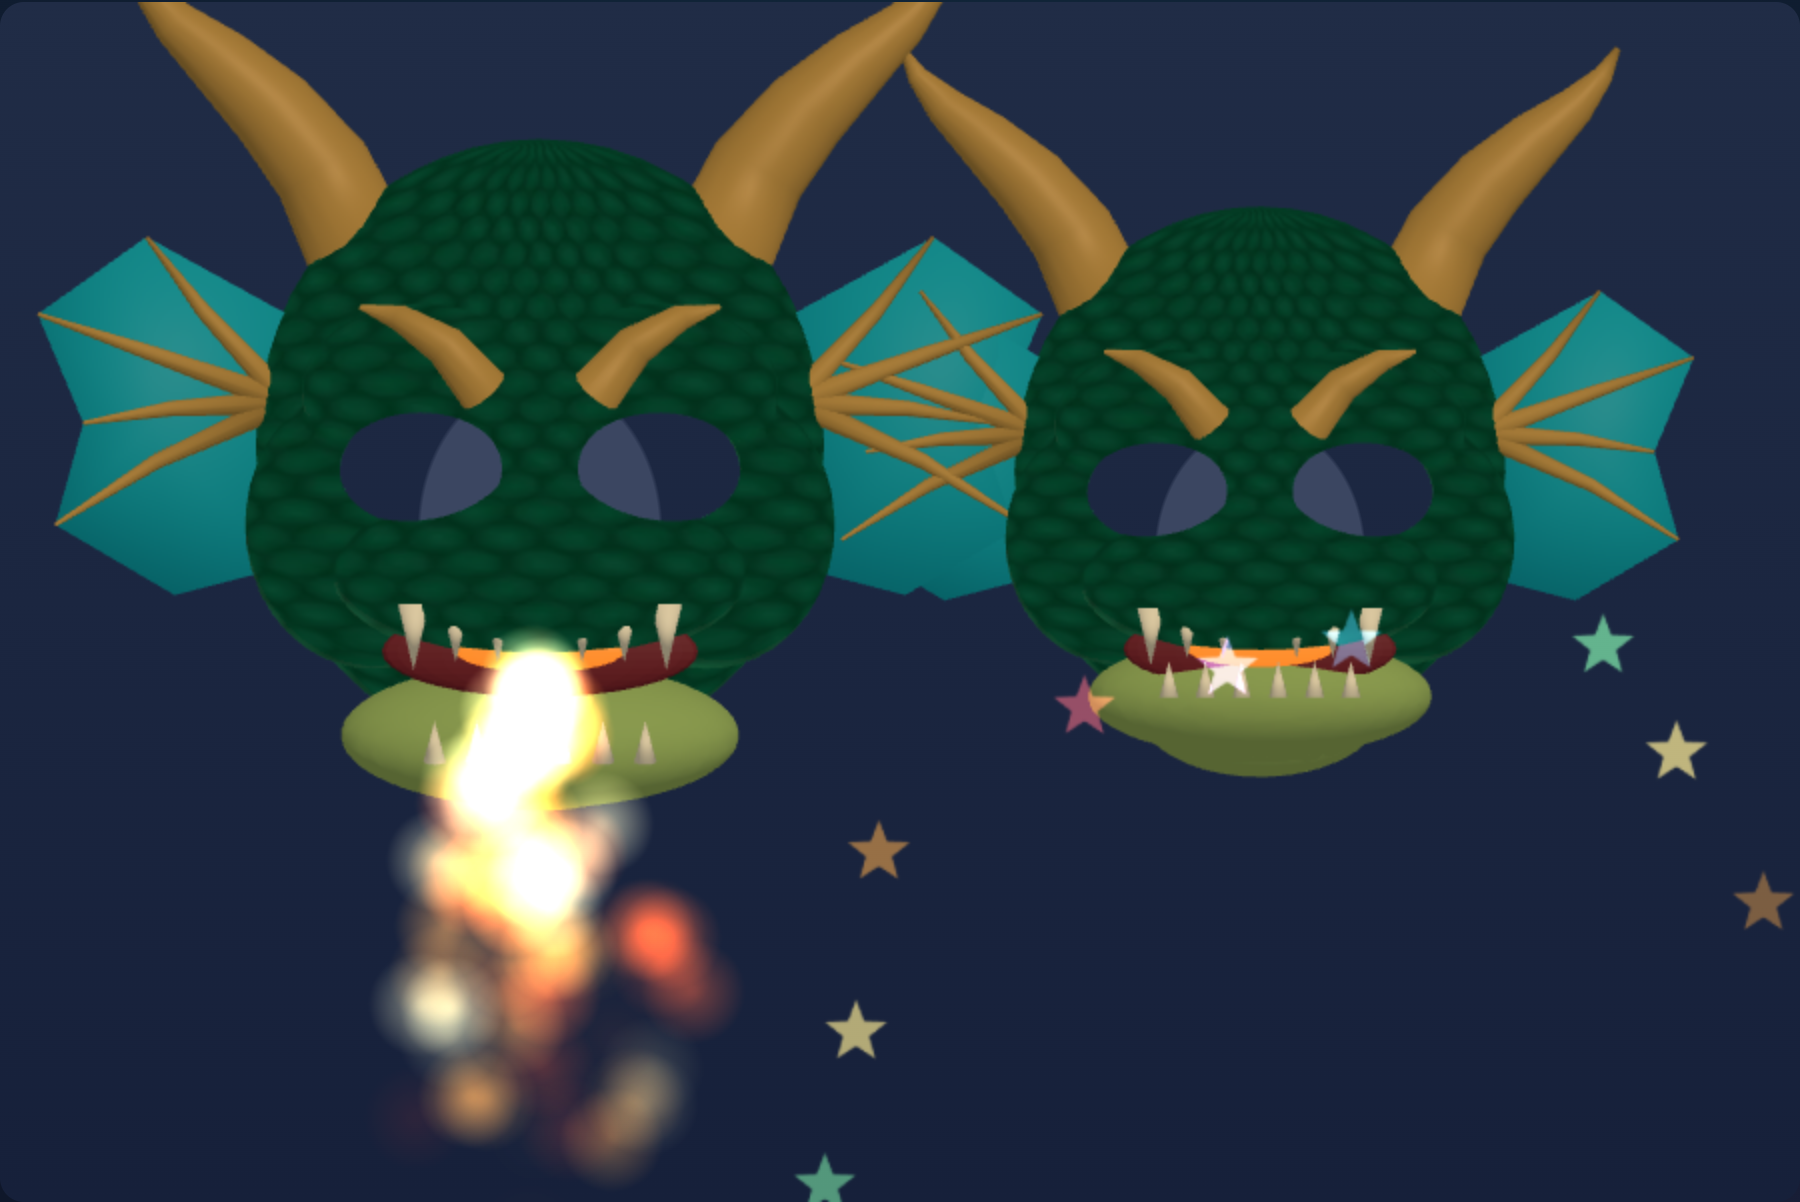
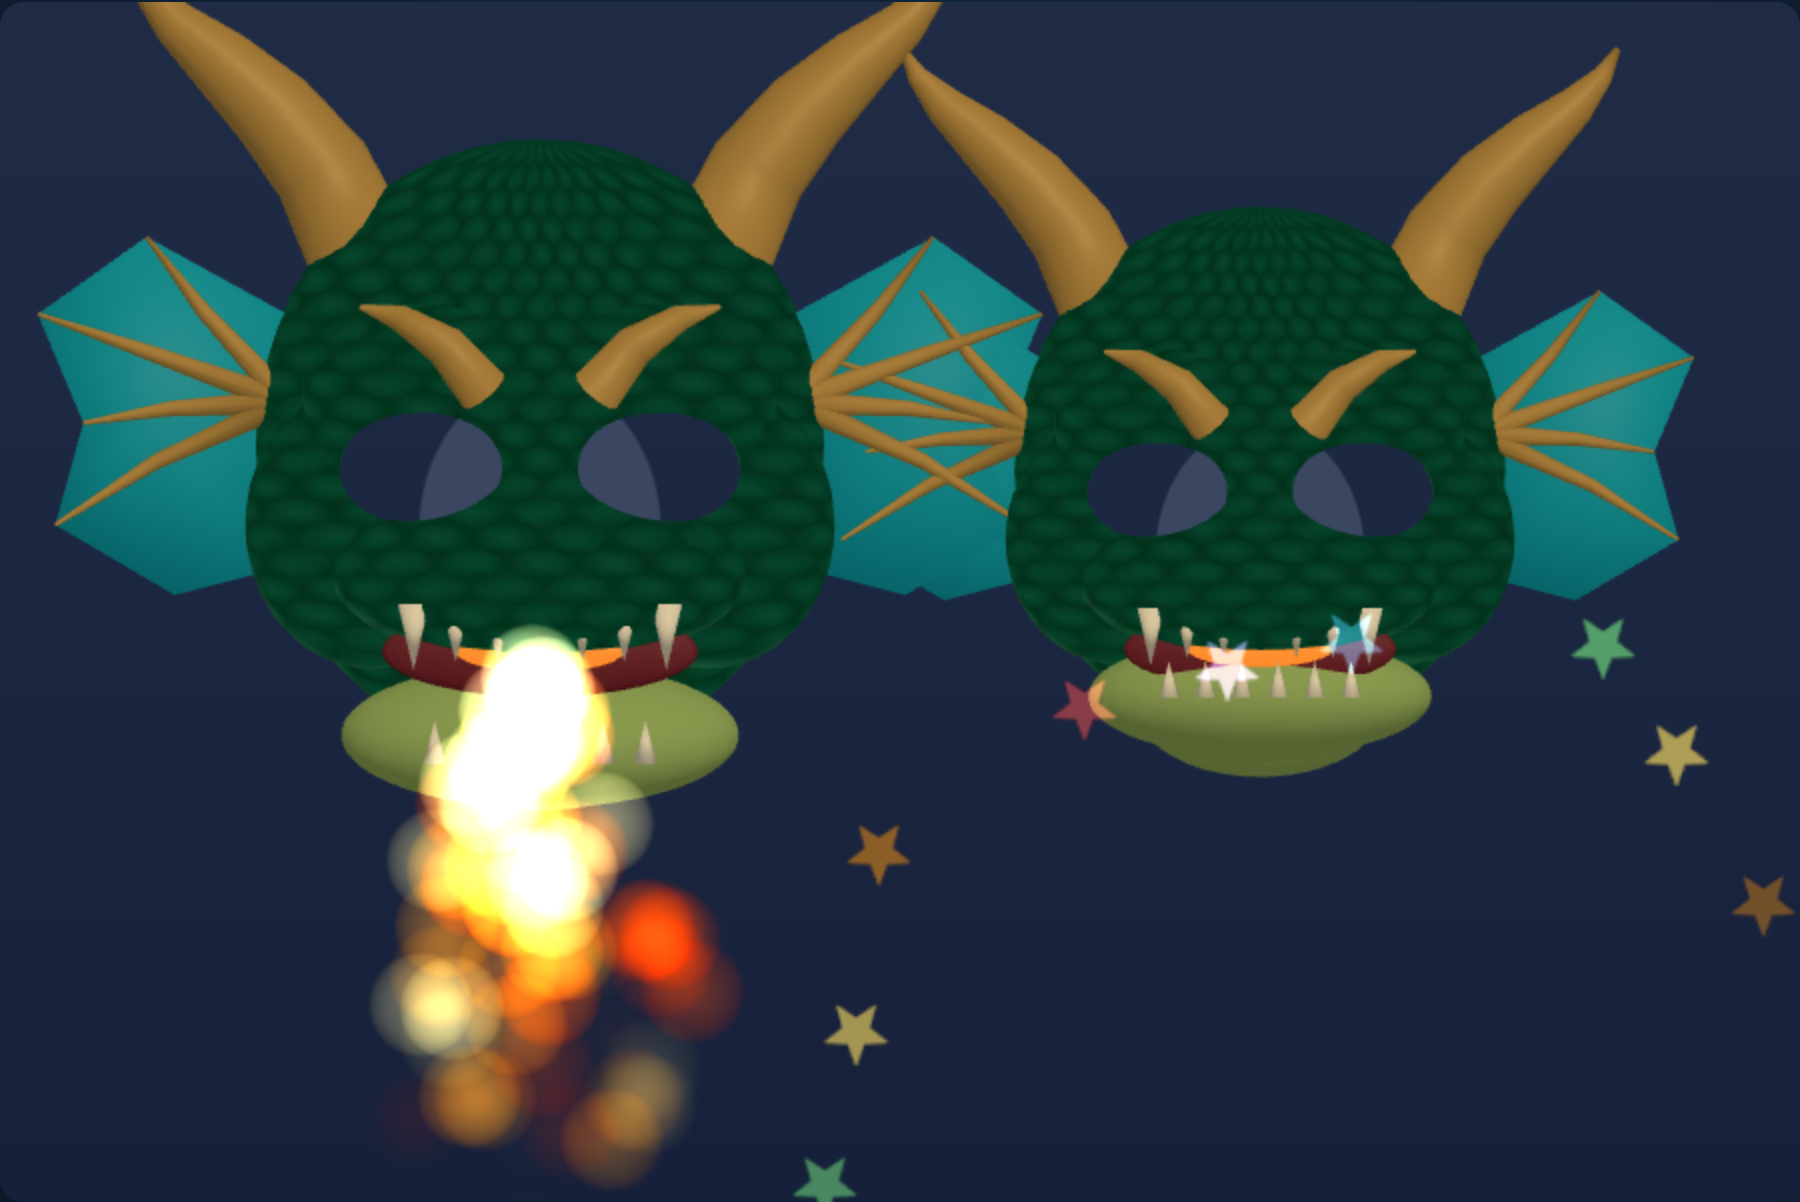
fix(effects): the fire reaches past the mask on the iPad
The flame stopped dead at the edge of the mask on the iPad, and the
peace-sign stars did the same wherever they left it.

The overlay is a transparent canvas over the video, and the glowing effects
added colour to it without writing any alpha — deliberately, because
accumulating alpha as a particle faded to black composited dying embers as
dark blots over the video. Chromium adds that colour to the page anyway,
which is why every screenshot looked right. WebKit — every browser on the
family's iPads — drops colour it finds in a pixel whose alpha is zero, so
the fire survived exactly as far as the mask underneath it and was cut off
at its edge.

The particles now draw through a small shader that writes premultiplied
colour and takes its alpha from the brightness of the pixel it just wrote,
after the conversion to the output colour space. Colour and alpha arrive
together, so WebKit keeps the flame; a particle fading to black hands back
an alpha fading with it, so the dark blots stay gone. The reduced-motion
glow blends normally now, which writes alpha for the same reason without
needing light maths for a still shape.

Two smaller things while in here: the glowing effects no longer depth-test
against the mask, so a face close enough to the camera can't scale the jaw
in front of the flame and cut through it, and their draw order over the
mask is explicit rather than incidental.

Proved in both engines on the effects harness (no camera needed): before,
[…]

diff --git a/src/shared/effects/overlay/particles.ts b/src/shared/effects/overlay/particles.ts
@@ -8,19 +8,65 @@
 import * as THREE from 'three';
 
 /**
- * Additive glow that leaves the canvas's alpha channel alone. Stock
- * `AdditiveBlending` also accumulates alpha, and on this transparent overlay
- * that composites faded (near-black) particles as solid black blotches over
- * the page. Adding RGB while keeping destination alpha works because the
- * canvas is premultiplied: the browser adds our RGB straight onto the video.
+ * The material every glowing particle uses: additive light on a transparent
+ * canvas floating over the video.
+ *
+ * The canvas is premultiplied, and **alpha has to be written wherever colour
+ * is added**. WebKit — every browser on the family's iPads — drops colour it
+ * finds in a pixel whose alpha is zero, so an effect that only added RGB
+ * survived exactly as far as the mask underneath it and was cut off at its
+ * edge. Chromium keeps that colour, which is why it looked right in the
+ * screenshots and wrong in the mirror.
+ *
+ * So the shader writes premultiplied colour and takes the alpha from the
+ * brightness of the pixel it just wrote, after the conversion to the output
+ * colour space. A particle fading to black hands back an alpha fading to zero
+ * with it, which is what keeps a dying ember from compositing as a dark blot
+ * over the video — the reason the alpha channel was left alone before.
+ *
+ * Light also never hides behind the thing it comes off, so these draw over the
+ * scene rather than being depth-tested against it: a face close enough to the
+ * camera scales the mask deeper than the flame's own plane, and the jaw would
+ * otherwise cut through the fire.
  */
-export function additiveOverlay(material: THREE.Material): void {
-  material.blending = THREE.CustomBlending;
-  material.blendEquation = THREE.AddEquation;
-  material.blendSrc = THREE.SrcAlphaFactor;
-  material.blendDst = THREE.OneFactor;
-  material.blendSrcAlpha = THREE.ZeroFactor;
-  material.blendDstAlpha = THREE.OneFactor;
+function glowMaterial(texture: THREE.Texture): THREE.ShaderMaterial {
+  return new THREE.ShaderMaterial({
+    uniforms: {
+      map: { value: texture },
+      // The overlay camera is orthographic, so distance-based point scaling is
+      // meaningless — sizes are plain pixels.
+      size: { value: 24 },
+    },
+    vertexShader: /* glsl */ `
+      attribute vec3 color;
+      uniform float size;
+      varying vec3 vColor;
+      void main() {
+        vColor = color;
+        gl_PointSize = size;
+        gl_Position = projectionMatrix * modelViewMatrix * vec4(position, 1.0);
+      }
+    `,
+    fragmentShader: /* glsl */ `
+      uniform sampler2D map;
+      varying vec3 vColor;
+      void main() {
+        vec4 sprite = texture2D(map, gl_PointCoord);
+        gl_FragColor = vec4(vColor * sprite.a, 1.0);
+        #include <colorspace_fragment>
+        gl_FragColor.a = max(max(gl_FragColor.r, gl_FragColor.g), gl_FragColor.b);
+      }
+    `,
+    transparent: true,
+    depthWrite: false,
+    depthTest: false,
+    blending: THREE.CustomBlending,
+    blendEquation: THREE.AddEquation,
+    blendSrc: THREE.OneFactor,
+    blendDst: THREE.OneFactor,
+    blendSrcAlpha: THREE.OneFactor,
+    blendDstAlpha: THREE.OneFactor,
+  });
 }
 
 /** Soft radial disc — the fire/glow sprite. Canvas-generated (ADR 0006). */
@@ -73,6 +119,8 @@ export interface ParticlePool {
   ): void;
   /** Advance the simulation and re-upload buffers. */
   step(dtS: number, gravityY: number, fade: (c: THREE.Color, lifeLeft: number) => void): void;
+  /** Sprite width in pixels — effects scale it off the face or hand. */
+  setSize(px: number): void;
   /** True when nothing is alive (safe to hide the points object). */
   idle(): boolean;
   dispose(): void;
@@ -89,17 +137,7 @@ export function createParticlePool(capacity: number, texture: THREE.Texture): Pa
   const geometry = new THREE.BufferGeometry();
   geometry.setAttribute('position', new THREE.BufferAttribute(positions, 3));
   geometry.setAttribute('color', new THREE.BufferAttribute(colors, 3));
-  // The overlay camera is orthographic, so distance-based point scaling is
-  // meaningless — sizes are plain pixels.
-  const material = new THREE.PointsMaterial({
-    map: texture,
-    vertexColors: true,
-    transparent: true,
-    depthWrite: false,
-    sizeAttenuation: false,
-    size: 24,
-  });
-  additiveOverlay(material);
+  const material = glowMaterial(texture);
   const points = new THREE.Points(geometry, material);
   points.frustumCulled = false;
 
@@ -141,10 +179,13 @@ export function createParticlePool(capacity: number, texture: THREE.Texture): Pa
       geometry.attributes.position.needsUpdate = true;
       geometry.attributes.color.needsUpdate = true;
     },
+    setSize(px) {
+      material.uniforms.size.value = px;
+    },
     idle: () => alive <= 0,
     dispose() {
       geometry.dispose();
-      material.map?.dispose();
+      material.uniforms.map.value?.dispose();
       material.dispose();
     },
   };

diff --git a/src/shared/effects/overlay/fire.ts b/src/shared/effects/overlay/fire.ts
@@ -6,7 +6,7 @@
  */
 
 import * as THREE from 'three';
-import { additiveOverlay, createParticlePool, softDiscTexture, type ParticlePool } from './particles';
+import { createParticlePool, softDiscTexture, type ParticlePool } from './particles';
 
 /** Hysteresis so the flame doesn't stutter while talking. */
 const JAW_ON = 0.42;
@@ -39,14 +39,17 @@ export class FireBreath {
   ) {
     this.pool = createParticlePool(140, softDiscTexture());
     this.group.add(this.pool.points);
+    // Blended normally rather than additively: a still glow needs no light
+    // maths, and normal blending writes the alpha WebKit needs to keep the
+    // colour where the mask isn't (see particles.ts).
     const glowMaterial = new THREE.SpriteMaterial({
       map: softDiscTexture(),
       color: 0xff8c2e,
       transparent: true,
       opacity: 0.85,
       depthWrite: false,
+      depthTest: false,
     });
-    additiveOverlay(glowMaterial);
     this.glow = new THREE.Sprite(glowMaterial);
     this.glow.visible = false;
     this.group.add(this.glow);
@@ -86,8 +89,7 @@ export class FireBreath {
       this.spawnDebt = 0;
     }
 
-    const mat = this.pool.points.material as THREE.PointsMaterial;
-    mat.size = Math.min(56, Math.max(10, u.scalePx * 0.38));
+    this.pool.setSize(Math.min(56, Math.max(10, u.scalePx * 0.38)));
     // Buoyancy: flames decelerate downward, then drift back up as they die.
     this.pool.step(u.dtS, u.scalePx * 4.5, (c, lifeLeft) => c.multiplyScalar(lifeLeft * lifeLeft));
     this.pool.points.visible = !this.pool.idle();

diff --git a/src/shared/effects/overlay/scene.ts b/src/shared/effects/overlay/scene.ts
@@ -96,7 +96,10 @@ export function createEffectsScene(
     anchor.visible = false;
     scene.add(anchor);
     const fire = new FireBreath(rng, opts.reducedMotion);
-    fire.group.position.z = 400; // always in front of the dragon geometry
+    fire.group.position.z = 400;
+    // Drawn after the mask, and not depth-tested against it (see
+    // additiveOverlay), so the flame is never cut in half by the jaw.
+    fire.group.renderOrder = 10;
     scene.add(fire.group);
     dragons.push({ anchor, head, fire, worn: null });
   }
@@ -118,6 +121,7 @@ export function createEffectsScene(
 
   const peace = new PeaceBurst(rng, opts.reducedMotion);
   peace.group.position.z = 420;
+  peace.group.renderOrder = 11;
   scene.add(peace.group);
 
   const pose = new THREE.Matrix4();

diff --git a/src/shared/effects/overlay/sparkles.ts b/src/shared/effects/overlay/sparkles.ts
@@ -44,6 +44,7 @@ export class PeaceBurst {
             color: RAINBOW[i],
             transparent: true,
             depthWrite: false,
+            depthTest: false, // over the mask, like the moving sparkles
           }),
         );
         star.visible = false;
@@ -93,8 +94,7 @@ export class PeaceBurst {
     }
 
     const sizeRef = active[0]?.sizePx ?? u.hands[0]?.sizePx ?? 40;
-    const mat = this.pool.points.material as THREE.PointsMaterial;
-    mat.size = Math.min(48, Math.max(12, sizeRef * 0.5));
+    this.pool.setSize(Math.min(48, Math.max(12, sizeRef * 0.5)));
     this.pool.step(u.dtS, -sizeRef * 3, (c, lifeLeft) => c.multiplyScalar(lifeLeft));
     this.pool.points.visible = !this.pool.idle();
   }
